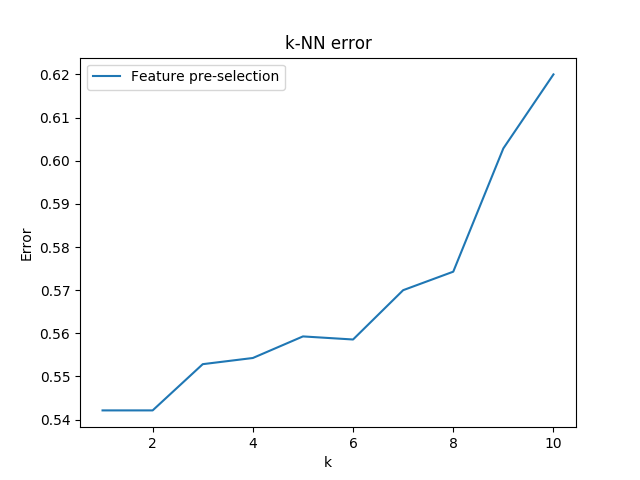
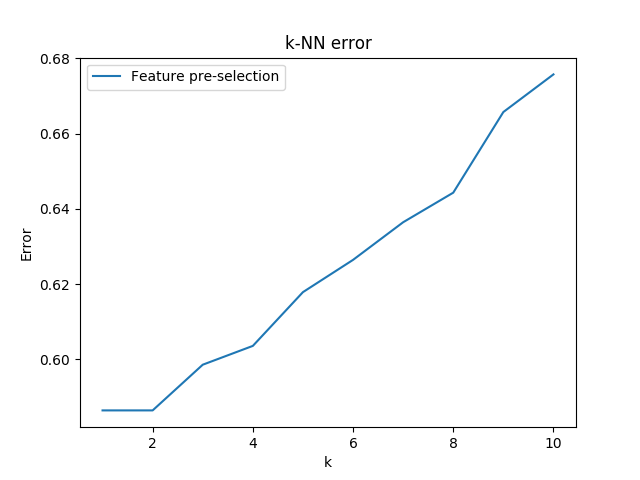
[CW2] Experimenting with kernel

diff --git a/Coursework 2/kNN_improved_feature_preselection.py b/Coursework 2/kNN_improved_feature_preselection.py
@@ -13,6 +13,7 @@ from learn_distance_metric import find_matrices
 from sklearn.preprocessing import normalize
 from sklearn.decomposition import KernelPCA
 from sklearn.discriminant_analysis import LinearDiscriminantAnalysis as LDA
+from sklearn.metrics.pairwise import rbf_kernel
 
 from nca import NCA
 
@@ -20,15 +21,10 @@ from tqdm import tqdm
 
 from collections import Counter
 
-"""
-def metric(x,y, **kwargs):
-    U = kwargs["metric_params"]["U"]
-    A = kwargs["metric_params"]["A"]
-    s1 = np.matmul(A.T, x-y)
-    s2 = np.matmul(x-y,A)
-    s3 = np.matul(np.matmul(s1.T,A),s_2)
-    return np.sqrt(s3)
-"""
+
+def metric(x,y):
+    return 1+1-2*rbf_kernel(x.reshape(1, -1),y.reshape(1, -1))
+
 def weight(x, sigma=0.1):
     return np.exp(-(x** 2) / 2*(sigma**2))
 
@@ -98,7 +94,7 @@ def analyse_KNN_feature_preselection(k=10):
     #training_features   = pca.transform(training_features)
     #gallery_features    = pca.transform(gallery_features)
 
-    nca = NCA(max_iter=30, verbose=True, num_dims=1000)
+    nca = NCA(max_iter=30, verbose=True, num_dims=100)
 
     training_features = nca.fit(training_features, training_labels)
     query_features      = nca.transform(query_features)
@@ -111,7 +107,7 @@ def analyse_KNN_feature_preselection(k=10):
 
         selected_gallery_features, selected_gallery_labels = select_features(gallery_camIds, query_camId, gallery_labels, query_label, gallery_features)
 
-        clf = neighbors.KNeighborsClassifier(k,algorithm="brute", metric="euclidean")
+        clf = neighbors.KNeighborsClassifier(k,algorithm="brute", metric=metric)
         #clf = neighbors.KNeighborsClassifier(k,algorithm='brute',metric=metric,
         #                                    metric_params={"A": A_s[query_label], "U": U_s[query_label]})
 

diff --git a/Coursework 2/nca.py b/Coursework 2/nca.py
@@ -11,6 +11,7 @@ import sys
 import numpy as np
 from scipy.optimize import minimize
 from sklearn.metrics import pairwise_distances
+from sklearn.metrics.pairwise import rbf_kernel
 from sklearn.utils.validation import check_X_y
 from sklearn.exceptions import ConvergenceWarning
 
@@ -177,7 +178,8 @@ class NCA(BaseMetricLearner):
     A = A.reshape(-1, X.shape[1])
     X_embedded = np.dot(X, A.T)  # (n_samples, num_dims)
     # Compute softmax distances
-    p_ij = pairwise_distances(X_embedded, squared=True)
+    #p_ij = pairwise_distances(X_embedded, metric="gaussian")
+    p_ij = rbf_kernel(X_embedded)
     np.fill_diagonal(p_ij, np.inf)
     p_ij = np.exp(-p_ij - logsumexp(-p_ij, axis=1)[:, np.newaxis])
     # (n_samples, n_samples)
